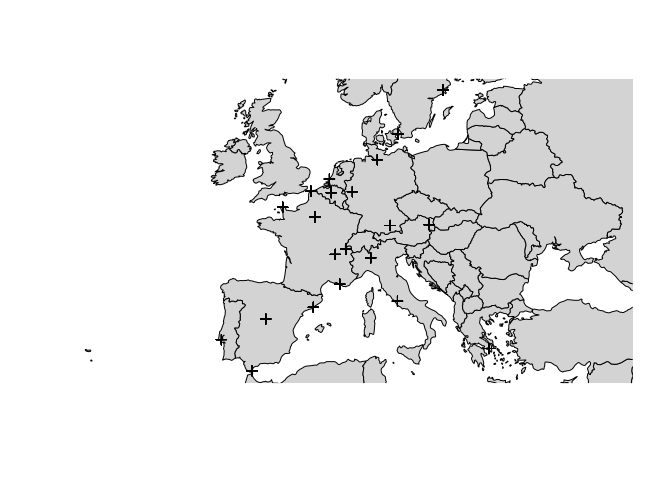
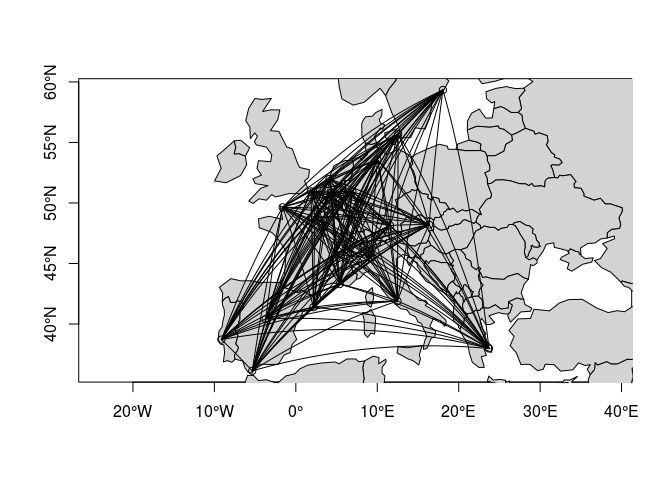
Readme: update plot with base graphics

diff --git a/README.md b/README.md
@@ -57,7 +57,7 @@ str(distances)
 #>  $ destin  : chr  "Athens" "Athens" "Athens" "Athens" ...
 #>  $ distance: num  3313 2963 3175 3339 2762 ...
 
-eurod_net <- geonetwork(distances, nodes = cities, directed = FALSE)
+eurodist <- geonetwork(distances, nodes = cities, directed = FALSE)
 ```
 
 Several assumptions were made here unless otherwise specified:
@@ -71,16 +71,25 @@ Several assumptions were made here unless otherwise specified:
 Now we can readily plot the network, optionally with some additional geographical layer for context:
 
 ``` r
-library(sp)
-plot(as(eurod_net, "Spatial"))  # sp
-maps::map(add = TRUE, fill = TRUE, col = "lightgray")
-points(as(eurod_net, "Spatial"))  # sp
+## Base system
+plot(eurodist, axes = TRUE, type = "n")
+plot(sf::st_geometry(spData::world), col = "lightgray", add = TRUE)
+plot(eurodist, axes = TRUE, add = TRUE)
 ```
 
 <img src="man/figures/README-plotting-1.png" width="100%" />
 
 ``` r
 
+# bgm <- ggmap::get_stamenmap(bbox = unname(sf::st_bbox(eurodist)),
+# zoom = 5, maptype = "watercolor") plot(st_transform(eurodist, 3857),
+# bgMap = bgm)
+
+## tmap
+
+## mapview
+
+## ggplot2
 
 # library(ggplot2)
 # ggplot() +
